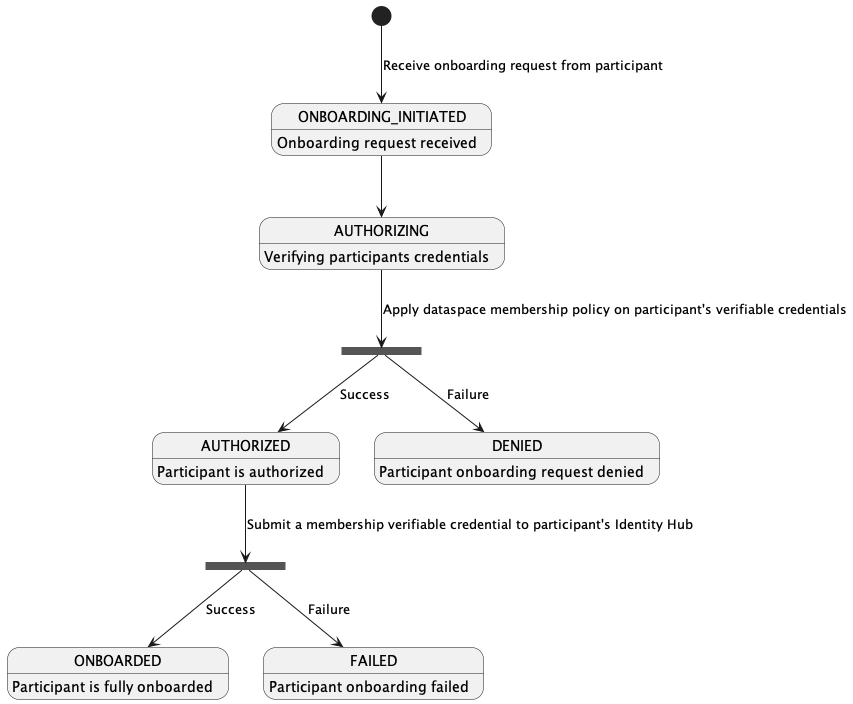
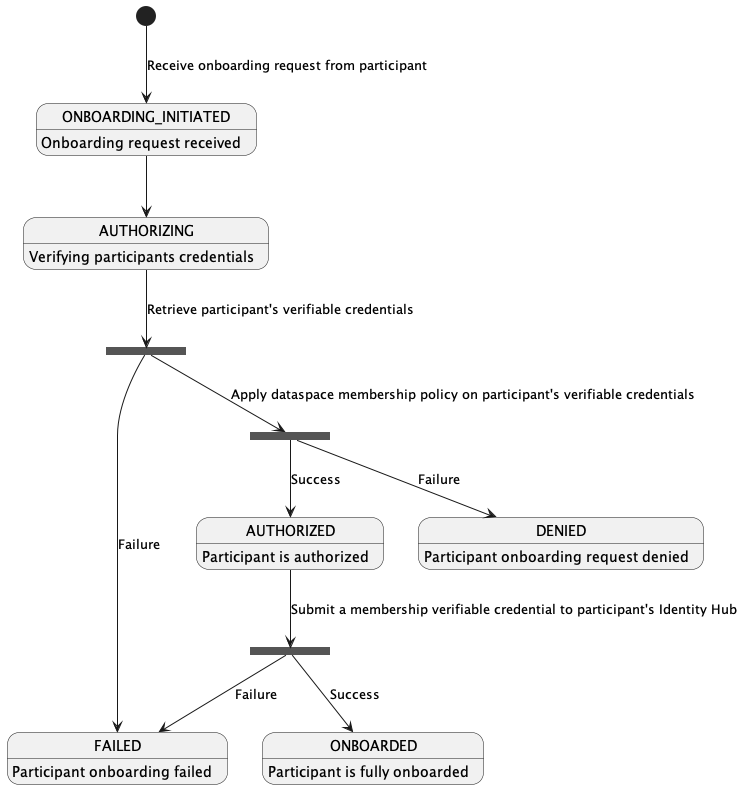
.

diff --git a/extensions/registration-service/src/test/java/org/eclipse/dataspaceconnector/registration/manager/ParticipantManagerTest.java b/extensions/registration-service/src/test/java/org/eclipse/dataspaceconnector/registration/manager/ParticipantManagerTest.java
@@ -24,6 +24,8 @@ import org.eclipse.dataspaceconnector.spi.response.ResponseStatus;
 import org.eclipse.dataspaceconnector.spi.response.StatusResult;
 import org.eclipse.dataspaceconnector.spi.system.ExecutorInstrumentation;
 import org.junit.jupiter.api.Test;
+import org.junit.jupiter.params.ParameterizedTest;
+import org.junit.jupiter.params.provider.EnumSource;
 import org.mockito.ArgumentCaptor;
 
 import java.util.List;
@@ -72,14 +74,25 @@ class ParticipantManagerTest {
         advancesState(AUTHORIZING, DENIED);
     }
 
-    @Test
-    void advancesStateFromAuthorizingToFailed() throws Exception {
-        when(credentialsVerifier.verifyCredentials(any())).thenReturn(StatusResult.failure(ResponseStatus.ERROR_RETRY));
+    @ParameterizedTest
+    @EnumSource(ResponseStatus.class)
+    void advancesStateFromAuthorizingToFailed(ResponseStatus errorStatus) throws Exception {
+        when(credentialsVerifier.verifyCredentials(any())).thenReturn(StatusResult.failure(errorStatus));
         advancesState(AUTHORIZING, FAILED);
+    }
+
+    @ParameterizedTest
+    @EnumSource(ResponseStatus.class)
+    void advancesStateFromAuthorizedToFailed(ResponseStatus errorStatus) throws Exception {
+        when(verifiableCredentialService.pushVerifiableCredential(any()))
+                .thenReturn(StatusResult.failure(errorStatus));
+        advancesState(AUTHORIZED, FAILED);
     }
 
     @Test
     void advancesStateFromAuthorizedToOnboarded() throws Exception {
+        when(verifiableCredentialService.pushVerifiableCredential(any()))
+                .thenReturn(StatusResult.success());
         advancesState(AUTHORIZED, ONBOARDED);
     }
 
